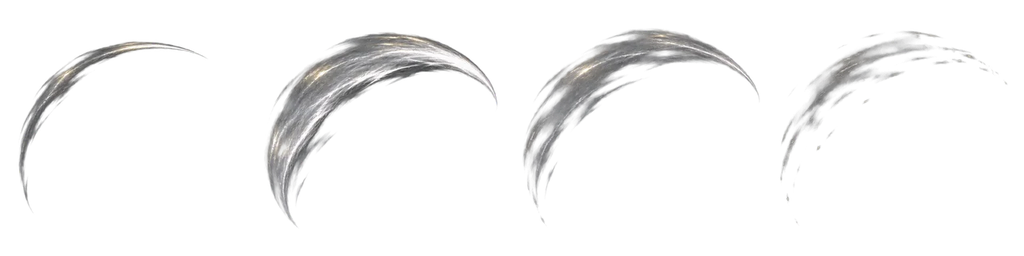
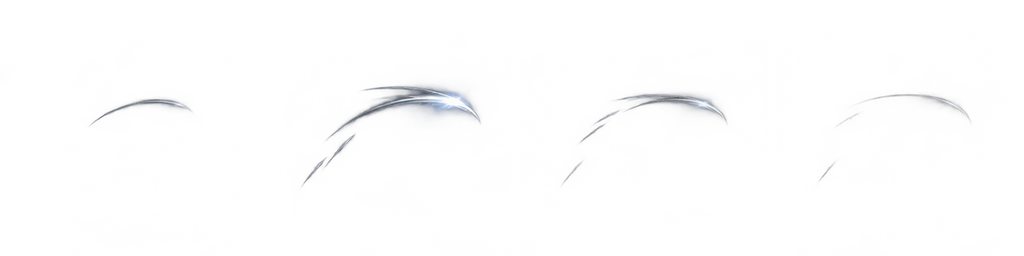
Popraw ikony przedmiotów i efekty kontaktu w walce

diff --git a/docs/DZIENNIK.md b/docs/DZIENNIK.md
@@ -17,6 +17,12 @@ Jedno miejsce, w którym każdy agent (z każdego konta) zostawia ślad pracy. *
 
 ---
 
+## 2026-11-27 — Codex, rola: grafik — ikony i efekty kontaktu
+- Gałąź: `oprawa-parowania-i-lupu`. Autor wyraził zgodę na pobieranie i wysyłanie plików projektu w repozytorium y33bau/extract. Nowe modele przeciwników odkłada do etapu Meshy.
+- Zrobione: 25 ikon katalogowych i cztery animacje kontaktu. Smuga ciosu zwykłego przeciwnika, parowanie, blok i trafienie podłączone do walki. Dodano podgląd `--podglad-oprawy=katalog`.
+- Paczka Windows: Warownia_OprawaWalki_Test.zip. Kontrola paczki: 25 ikon i 4/4 zdarzenia, WYNIK OPRAWY: OK. Pełny test Windows Forward+: 143/157 zarówno w Poprawkach 2, jak i w wersji z nową oprawą. Nadal wymagają sprawdzenia m.in. nawigacja padem i testy końca rajdu.
+- Nie sprawdzono fizycznego pada ani dźwięku. Następny krok: ocena czytelności nowych efektów przez autora w rajdzie.
+
 ## 2026-11-26 — Codex, agent główny — publikacja Poprawek 2
 - Na „publikuj” autora przesunięto main fast-forward z 32087d1 do bb4ff3e. Boss odłożony.
 - Priorytet autora: efekty walki zwykłych przeciwników (zwłaszcza ataki i parowanie) i ikony przedmiotów. Przegląd źródeł i materiałów z gry. Dwa arkusze kierunku graficznego: 25 ikon katalogowych oraz cięcie, parowanie, blok i trafienie po cztery klatki. Do oceny przed integracją.
